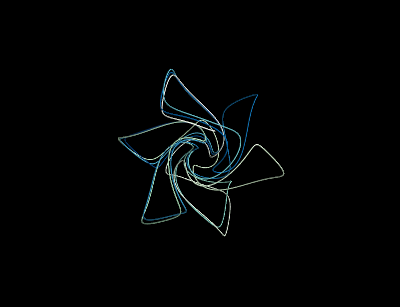
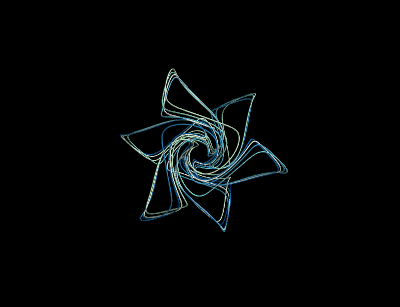
Changed plot_time_series so that multiple variables are plotted in the same figure

Changed region(s): [[0.3, 0.2052, 0.72, 0.7622]]

diff --git a/src/time_series_plots.py b/src/time_series_plots.py
@@ -5,13 +5,39 @@ from pyts.image import RecurrencePlot
 from statsmodels.graphics.tsaplots import plot_acf, plot_pacf
 from mayavi import mlab
 
-def plot_time_series(time_series, filename = ""):
+def plot_time_series(time_series, obs_times = None, filename = ""):
     """
-    Plots the time series. Saves plot if a filename is given.
+    Plots the time series. Time series can be a single time series or an array of time series.
+    Saves plot if a filename is given.
+    :param time_series: a single or an array of time series.
+    :param filename: if given, the time series plot is saved using this name.
     """
-    plt.figure(figsize=(5, 5))
-    plt.plot(time_series)
-    plt.title("Time Series Plot", fontsize = 18)
+
+    #check if we are dealing with one or multiple time series
+    if len(np.shape(time_series)) == 1 or np.shape(time_series)[1] == 1:
+        # if no observation times are given, create array
+        if obs_times == None:
+            obs_times = np.arange(0, len(time_series))
+
+        plt.plot( obs_times, time_series)
+        plt.xlabel('t')
+        plt.ylabel('x')
+        if(filename != ""):
+            plt.suptitle(filename, fontsize = 18)
+        plt.title("Time series Plot")
+
+    else:
+        # if no observation times are given, create array
+        if obs_times == None:
+            obs_times = np.arange(0, np.shape(time_series)[0])
+
+        fig, axs = plt.subplots(np.shape(time_series)[1])
+        fig.suptitle("Time Series Plots", fontsize = 18)
+        for i in range(np.shape(time_series)[1]):
+            axs[i].plot(obs_times, time_series[:,i])
+            axs[i].set(ylabel = "x" + str(i), xlabel = "t")
+
+        plt.suptitle((str(filename)+"\n Time series plot"), fontsize = 15)
 
     # save plot iff filename is provided
     if filename != "":
@@ -138,10 +164,4 @@ def example_mayavi():
     mlab.show()
 
 if __name__ == "__main__":
-
     example_mayavi()
-
-
-
-
-    

diff --git a/src/create_dummy_time_series.py b/src/create_dummy_time_series.py
@@ -71,7 +71,7 @@ def simulate_additive_white_noise(delta_t = 2e-5, t_max = 100, noise = 0.05):
         trajectory.append(level)
         level += np.random.normal(0, noise)
         timer += delta_t
-    return trajectory
+    return np.array(trajectory)
 
 def plot_dynamical_system(name = "Lorenz", which_var = 0,
                           delta_t = 2e-5, t_max = 1000, noise = 0.05,
@@ -102,12 +102,25 @@ def plot_dynamical_system(name = "Lorenz", which_var = 0,
         time_series = simulate_additive_white_noise(delta_t=2e-3, t_max=4, noise=0.1)
         time_series = np.ndarray.transpose(np.array(time_series))
 
-    plot_time_series(time_series, filename=name)
-    plot_autocorrelation(time_series, filename=name)
-    plot_recurrence(time_series, delay=1, eps=0.5, filename=name)
-    plot_partial_autocorrelation(time_series, filename=name)
+    #plot_time_series(time_series, filename=name)
+    #plot_autocorrelation(time_series, filename=name)
+    #plot_recurrence(time_series, delay=1, eps=0.5, filename=name)
+    #plot_partial_autocorrelation(time_series, filename=name)
 
 if __name__ == "__main__":
     #plot_dynamical_system("Lorenz")
-    plot_dynamical_system("Thomas", t_max = 20000, tube_radius=0.025, noise = 0, colors = 'GnBu')
+    #plot_dynamical_system("Thomas", t_max = 20000, tube_radius=0.025, noise = 0, colors = 'GnBu')
     #plot_dynamical_system()
+
+    #lorenz_trajectory = simulate_lorenz(t_max = 300000)
+    thomas_trajectory = simulate_thomas(vec0=[1,1,1],t_max = 1000)
+    make_3d_plot(thomas_trajectory[:,0],
+                 thomas_trajectory[:,1],
+                 thomas_trajectory[:,2])
+    #white_noise_trajectory = simulate_additive_white_noise(t_max = 200)
+
+    #plot_time_series(lorenz_trajectory[280000:,], filename = "Lorenz")
+    plot_time_series(thomas_trajectory[:,], filename="Thomas")
+    #plot_time_series(white_noise_trajectory, filename = "White noise")
+
+    print("hallo")
